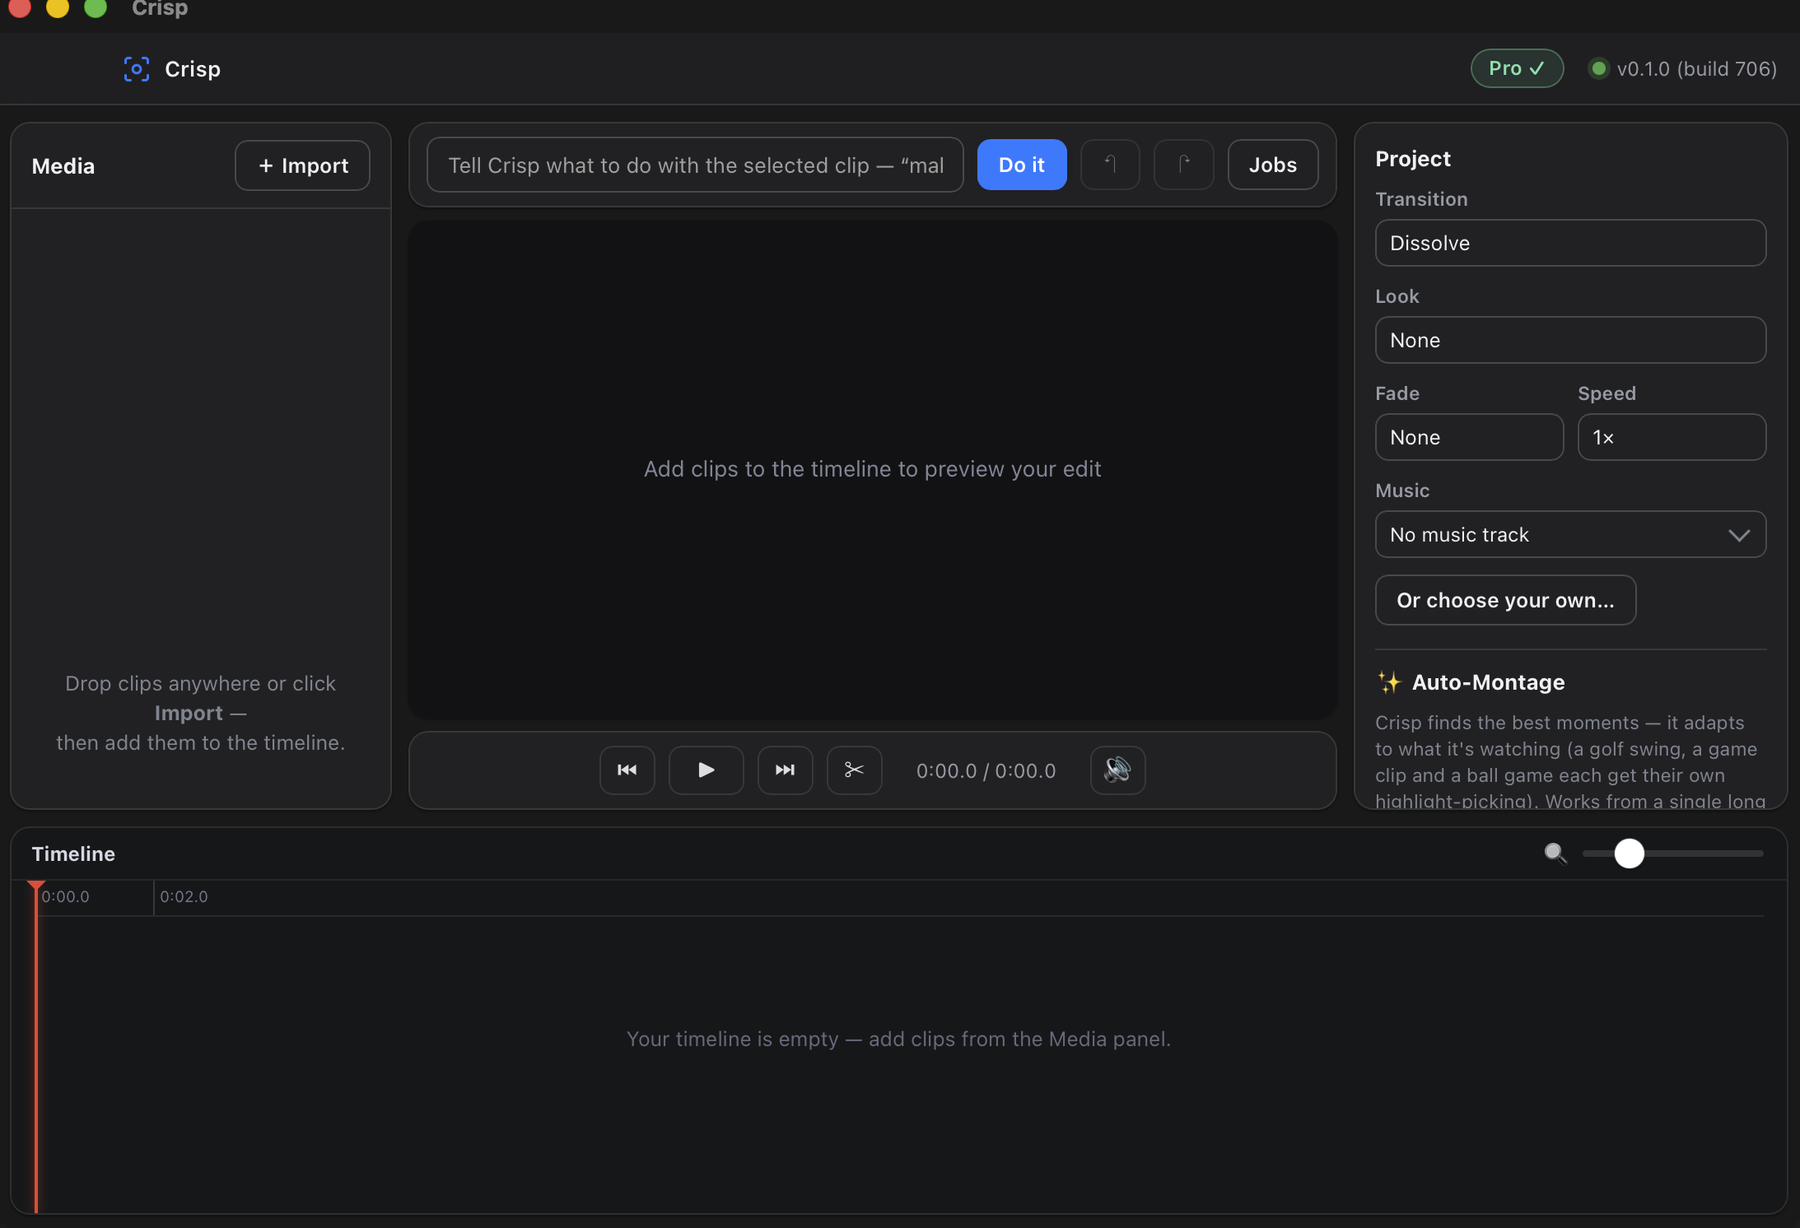
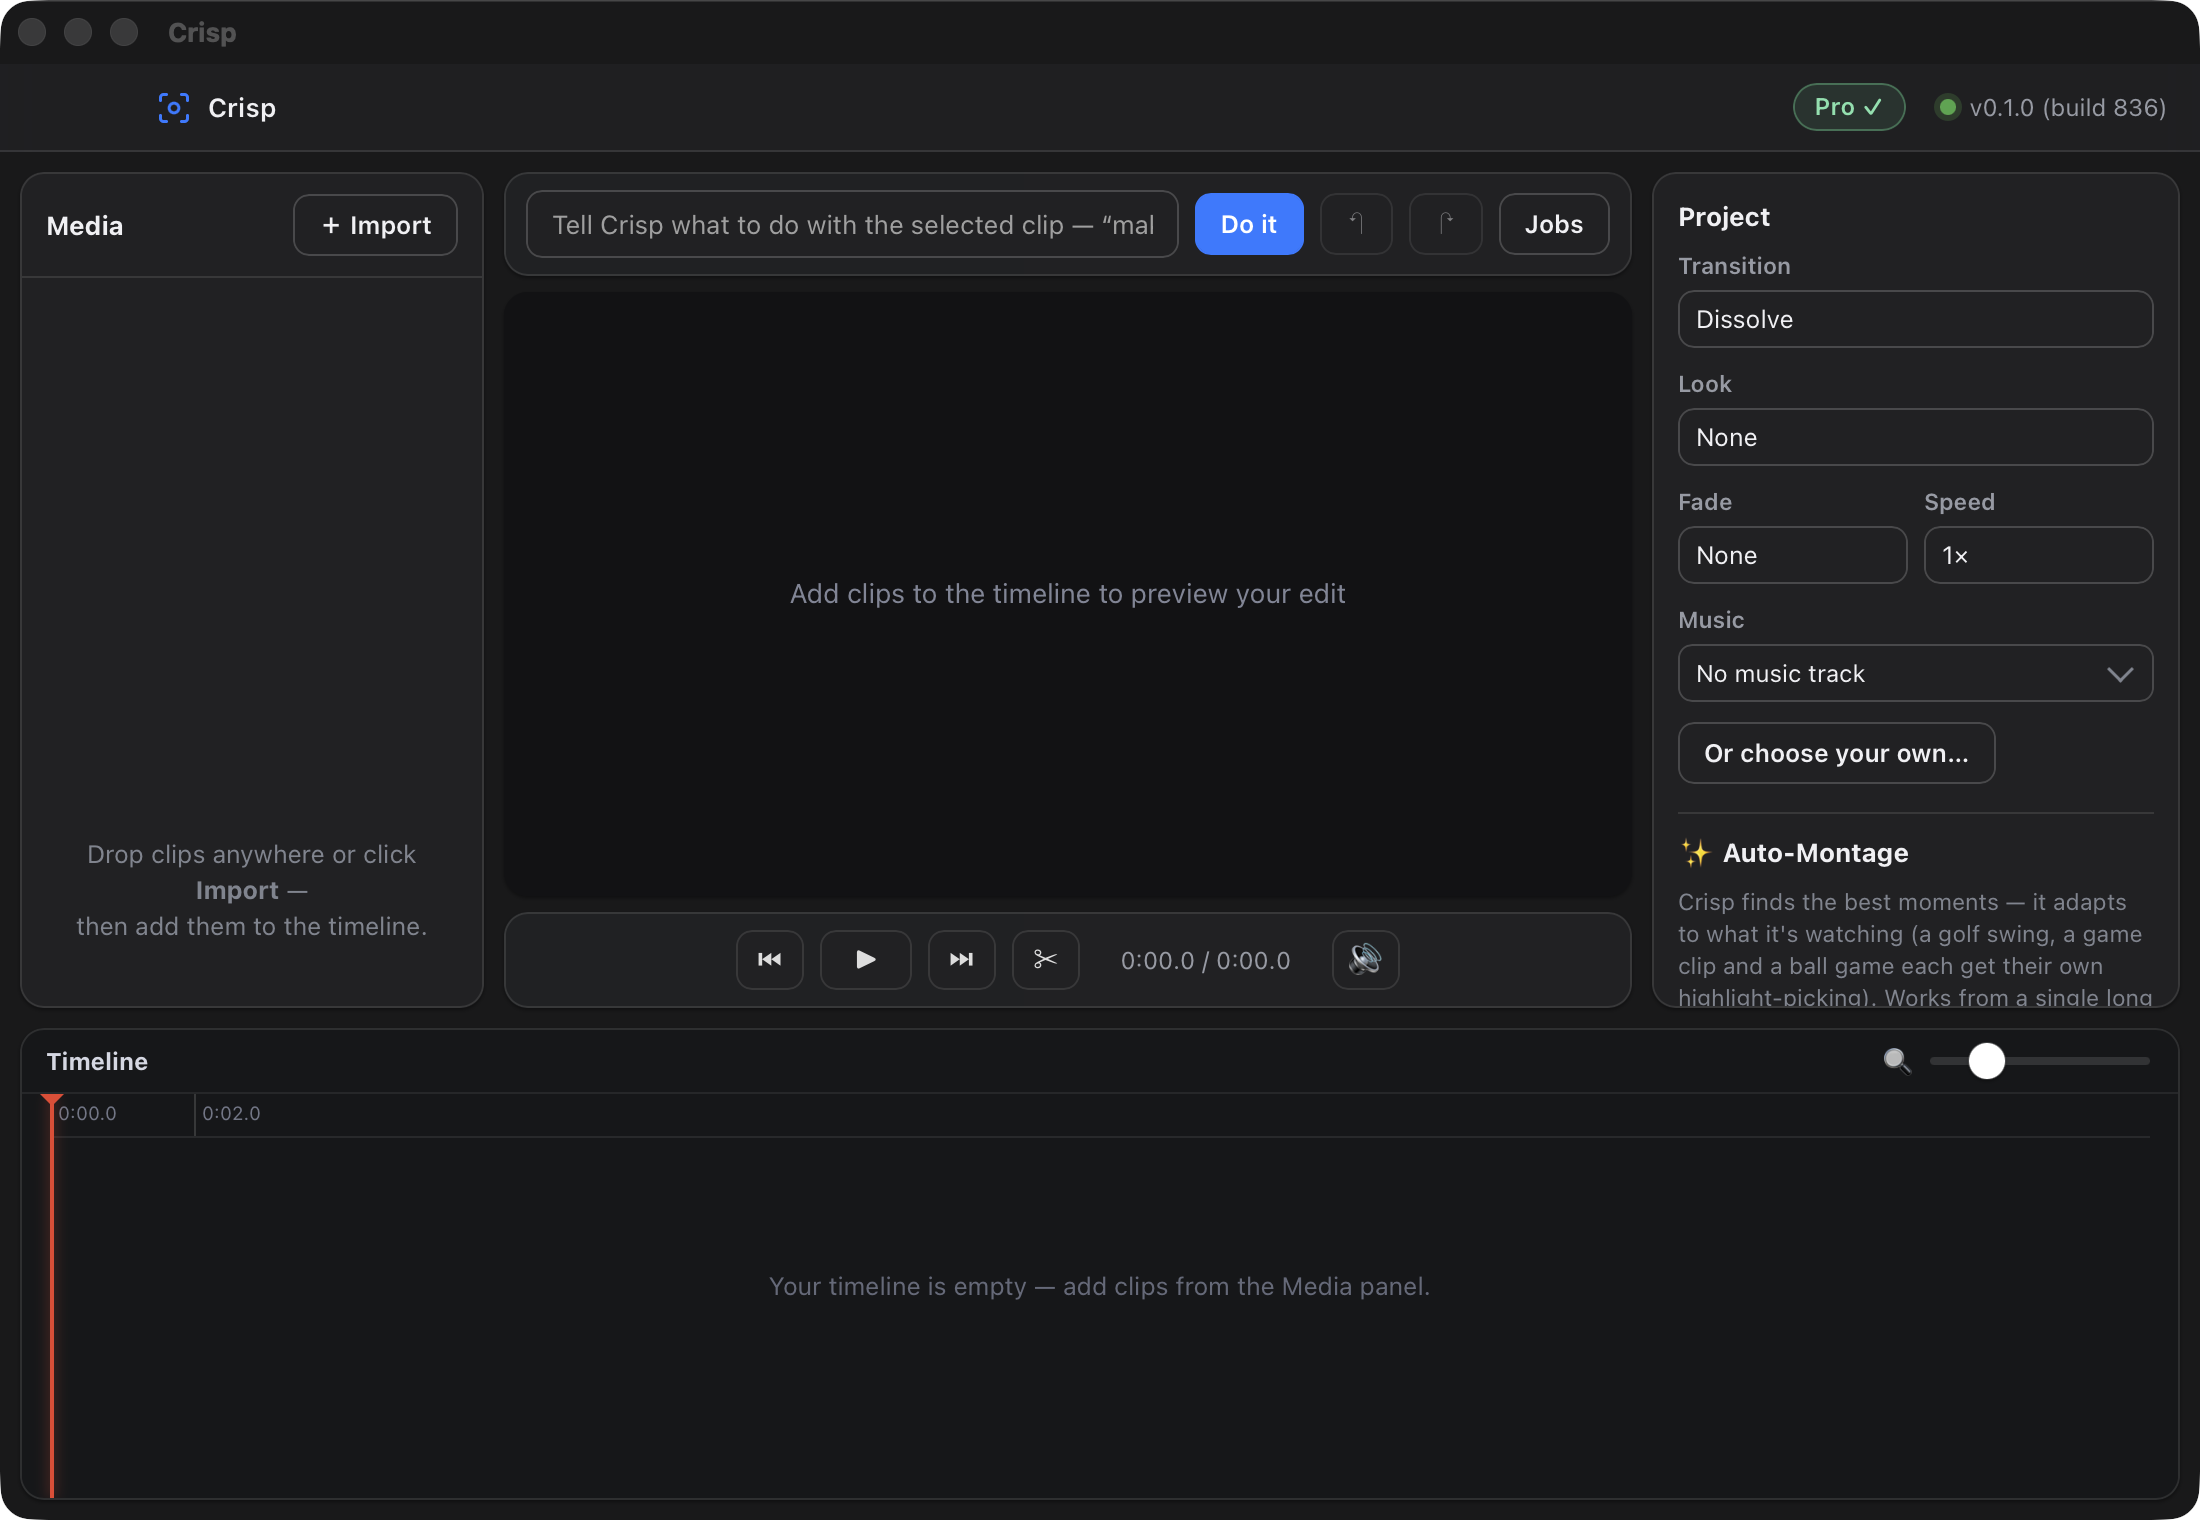
the screenshot advertised build 706 while the download served 836
A visitor could download Crisp and find a different version number than the one in the
picture on the page. 130 builds of drift, and the kind of detail that costs more
credibility than it should.

Re-shot from the installed bundle: v0.1.0 (build 836), the same build the four release
assets currently resolve to.

HOW IT WAS CAPTURED, because the obvious way is the unsafe one. This box runs 111
windows across several sessions, and a previous attempt at this caught another
session's content in frame. screencapture -R takes a screen REGION and will happily
include whatever else is sitting in that rectangle. screencapture -l takes a WINDOW ID
and can only ever contain that one window -- occluded, off-screen, without raising it
and without stealing focus from whoever is using the machine.

Getting the window id needs Quartz, which is not in any interpreter here, so it went
into a throwaway venv under the scratchpad rather than into the project environment.
Every frame was reviewed before use: the capture contains the Crisp window and nothing
else.

The composition is unchanged -- still an empty project. There is no API for the
timeline (the sidecar exposes jobs, media, presets and plan; the project is frontend
state), so populating it would take UI automation and a focus steal, which is not worth
it for a screenshot that now sits three screens down where the interface itself is the
subject.

Dimensions move 1800x1228 -> 2200x1520 and the srcset descriptors follow (1100w /
[…]

diff --git a/index.html b/index.html
@@ -428,9 +428,9 @@ footer{border-top:1px solid var(--hair);padding:2.8rem 0;color:var(--grey-dim);f
     <!-- Moved down from the hero, where an empty timeline was the first thing a visitor saw.
          Here the interface IS the subject, so an empty project is honest rather than limp. -->
     <figure class="shot">
-      <div class="frame"><img src="/img-app@2x.png" srcset="/img-app.png 900w, /img-app@2x.png 1800w"
+      <div class="frame"><img src="/img-app@2x.png" srcset="/img-app.png 1100w, /img-app@2x.png 2200w"
         sizes="(max-width: 1100px) 100vw, 1060px"
-        width="1800" height="1228" alt="Crisp on macOS: media panel, preview, project settings and timeline." loading="lazy" decoding="async"></div>
+        width="2200" height="1520" alt="Crisp on macOS: media panel, preview, project settings and timeline." loading="lazy" decoding="async"></div>
       <figcaption class="cap">Crisp on macOS — editor, queue and upscaler in one window.</figcaption>
     </figure>
 
